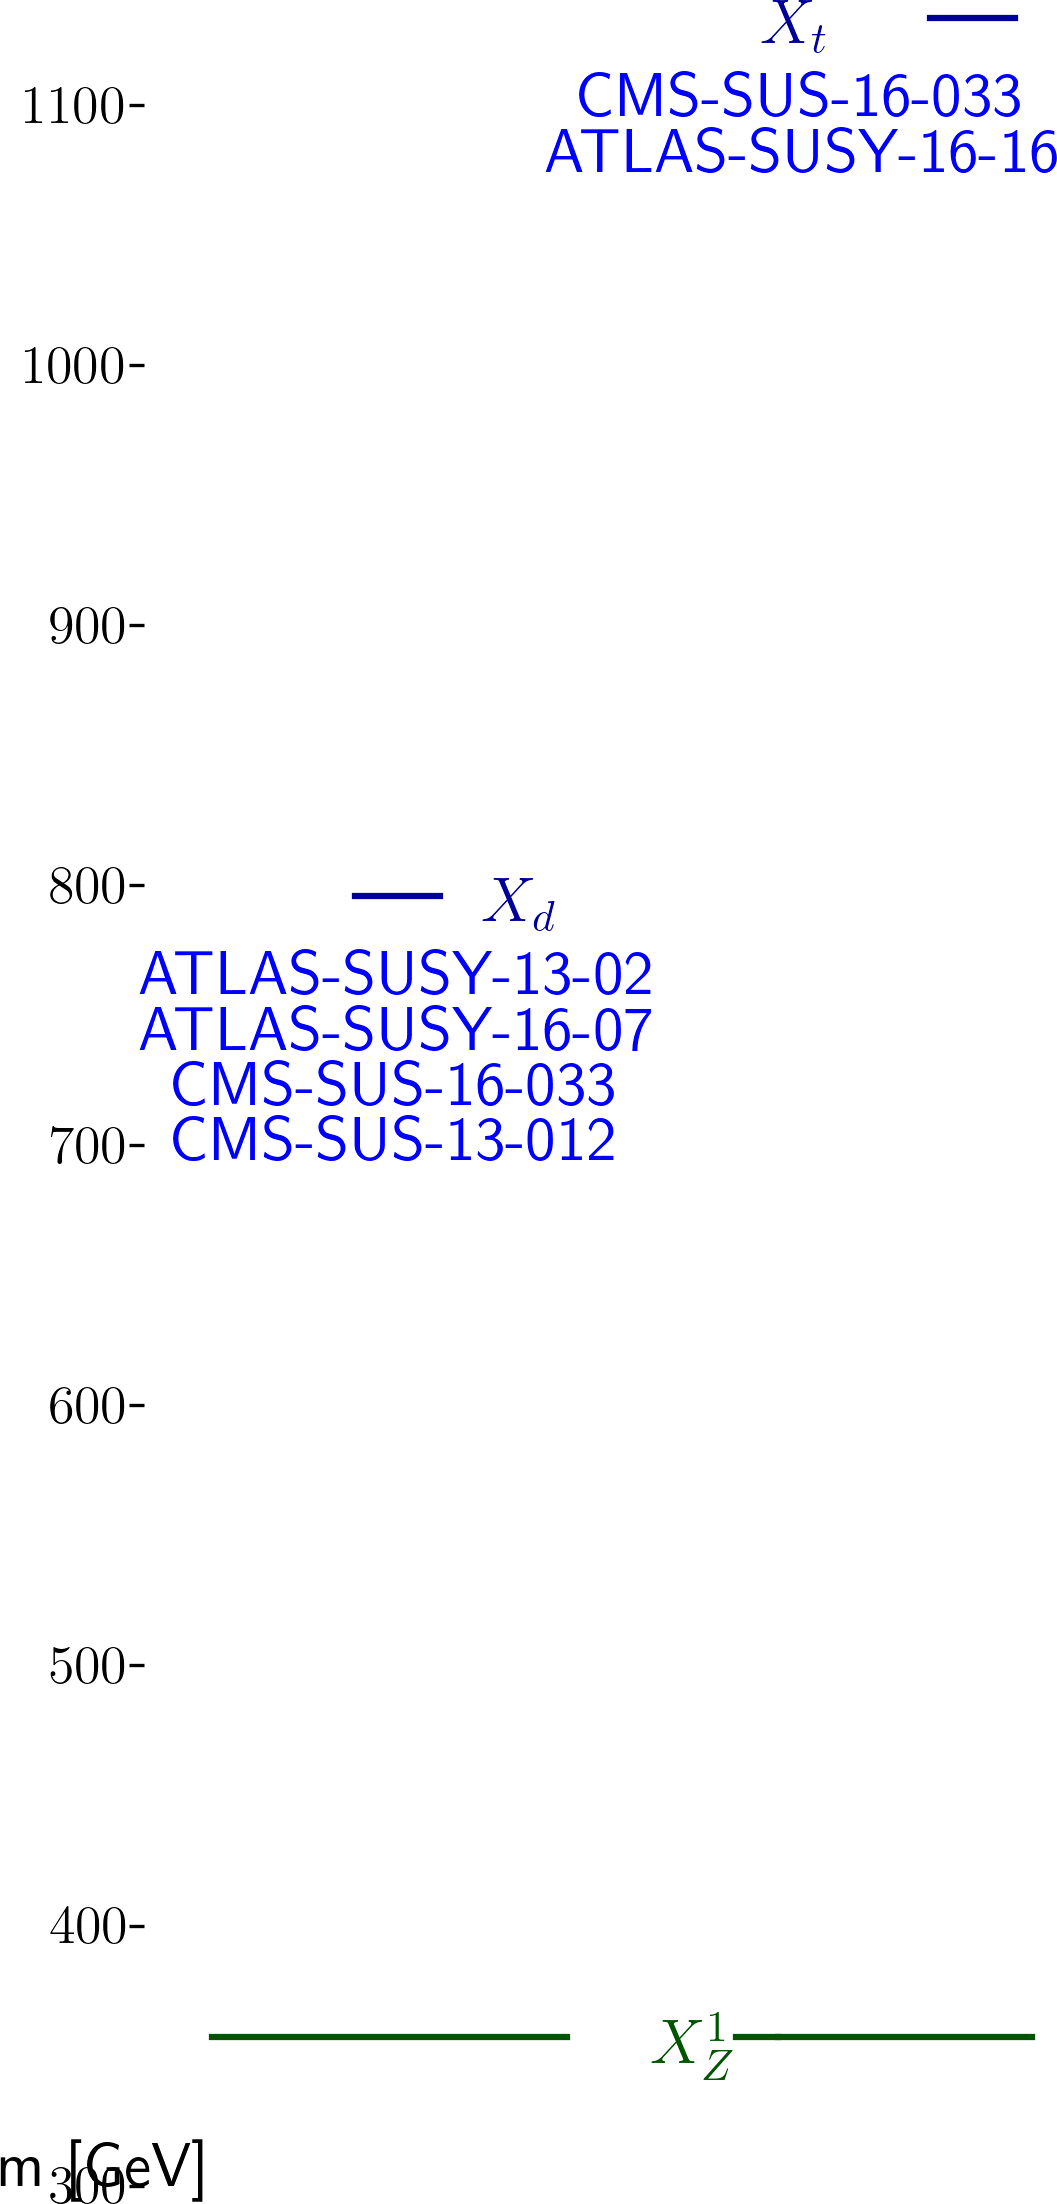
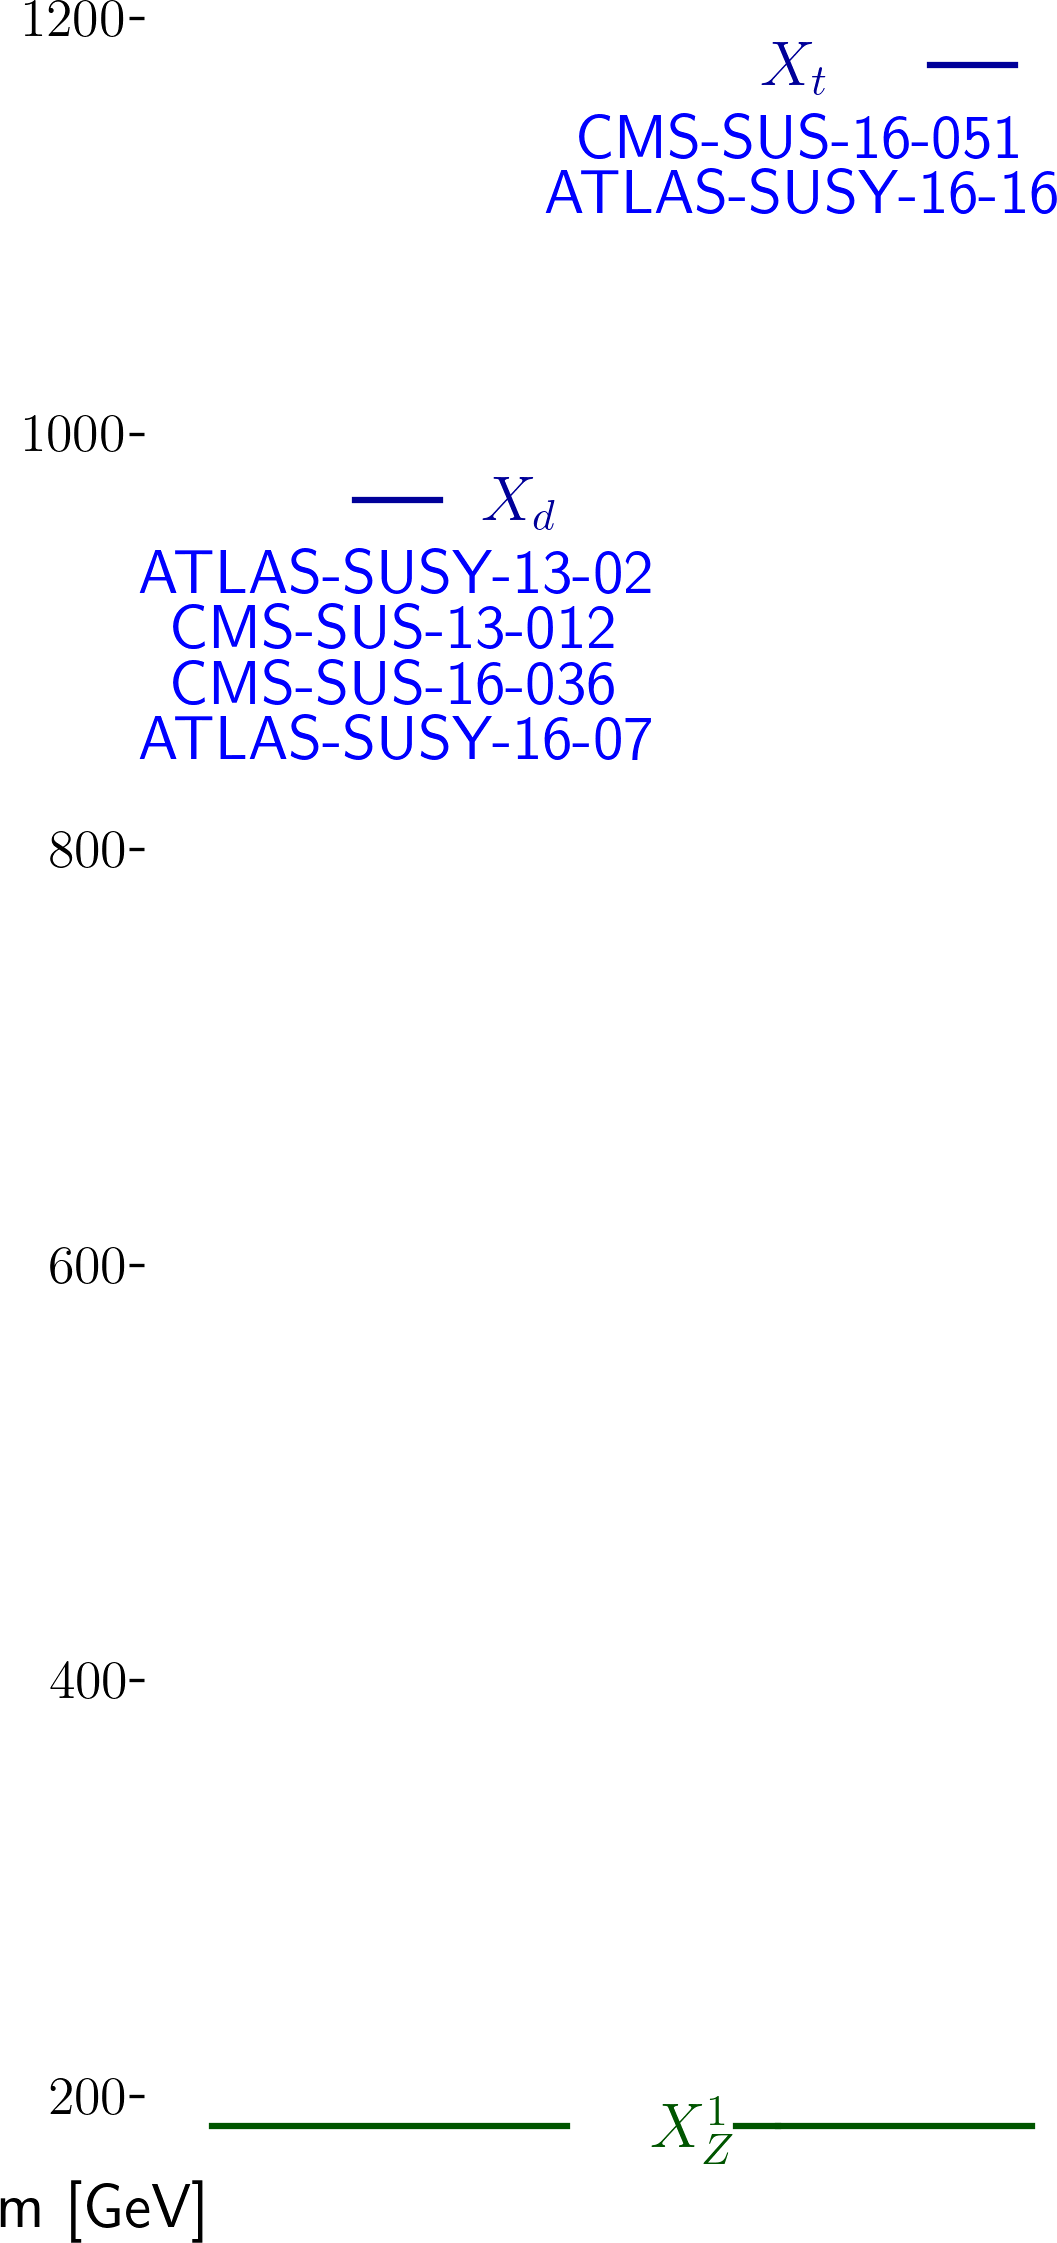
automated update by plotHiscore.py to /scratch-cbe/users/wolfgan.waltenberger/git/smodels.github.io/protomodels

diff --git a/protomodels/2020_PioneerStudy/closure_frozen7/index.html b/protomodels/2020_PioneerStudy/closure_frozen7/index.html
@@ -1,30 +1,31 @@
 <html>
 <body>
 <center>
-<table><td><h1>Current best protomodel: <i>K</i>=4.41</h1><td><img height=60px src=https://smodels.github.io/pics/banner.png></table>
+<table><td><h1>Current best protomodel: <i>K</i>=8.50</h1><td><img height=60px src=https://smodels.github.io/pics/banner.png></table>
 </center>
-<b><a href=./hiscore.slha>ProtoModel</a> <a href=./pmodel.py>(dict)</a> produced with <a href=https://smodels.github.io/docs/Validation124doublefrozen7>database v1.2.4doublefrozen7</a>, combination strategy <a href=./matrix_aggressive.png>aggressive</a> in walker 31 step 377.</b> <i>K</i> plots for: <a href=./M1000022.png?15052378>X<sub>Z</sub><sup>1</sup></a>, <a href=./M1000006.png?15052378>X<sub>t</sub></a>, <a href=./M1000001.png?15052378>X<sub>d</sub></a>. HPD plots for: <a href=./llhd1000006.png?15052378>X<sub>t</sub></a>, <a href=./llhd1000001.png?15052378>X<sub>d</sub></a>. SSM plots for: <a href=./ssm_-1000006_1000006.png?15052378>(x&#772;<sub>t</sub>,X<sub>t</sub>)</a><br>
+<b><a href=./hiscore.slha>ProtoModel</a> <a href=./pmodel.py>(dict)</a> produced with <a href=https://smodels.github.io/docs/Validation124frozen7>database v1.2.4frozen7</a>, combination strategy <a href=./matrix_aggressive.png>aggressive</a> in walker 18 step 830.</b> <i>K</i> plots for: <a href=./M1000022.png?15308260>X<sub>Z</sub><sup>1</sup></a>, <a href=./M1000006.png?15308260>X<sub>t</sub></a>, <a href=./M1000001.png?15308260>X<sub>d</sub></a>. HPD plots for: <a href=./llhd1000006.png?15308260>X<sub>t</sub></a>, <a href=./llhd1000001.png?15308260>X<sub>d</sub></a>. SSM plots for: <a href=./ssm_-1000006_1000006.png?15308260>(x&#772;<sub>t</sub>,X<sub>t</sub>)</a><br>
 <table width=80%>
 <tr><td>
 <br><b>24 predictions available. Highest r values are:</b><br><ul>
-<li><a href=http://cms-results.web.cern.ch/cms-results/public-results/publications/SUS-19-006/index.html>CMS-SUS-19-006</a>:T2 r=1.30, r<sub>exp</sub>=1.30<br>
-<li><a href=http://cms-results.web.cern.ch/cms-results/public-results/publications/SUS-19-006/index.html>CMS-SUS-19-006</a>:T2tt r=1.01, r<sub>exp</sub>=1.01<br>
-<li><a href=http://cms-results.web.cern.ch/cms-results/public-results/publications/SUS-16-049/index.html>CMS-SUS-16-049</a>:T2tt r=0.99, r<sub>exp</sub>=0.99<br>
-<li><a href=http://cms-results.web.cern.ch/cms-results/public-results/publications/SUS-16-033/index.html>CMS-SUS-16-033</a>:T2 r=0.99, r<sub>exp</sub>=0.99<br>
-<li><a href=http://cms-results.web.cern.ch/cms-results/public-results/publications/SUS-16-050/index.html>CMS-SUS-16-050</a>:T2tt r=0.97, r<sub>exp</sub>=0.97<br>
+<li><a href=http://cms-results.web.cern.ch/cms-results/public-results/publications/SUS-19-006/index.html>CMS-SUS-19-006</a>:T2tt r=0.64, r<sub>exp</sub>=N/A<br>
+<li><a href=https://atlas.web.cern.ch/Atlas/GROUPS/PHYSICS/PAPERS/SUSY-2016-07/>ATLAS-SUSY-2016-07</a>:T2 r=0.61, r<sub>exp</sub>=N/A<br>
+<li><a href=http://cms-results.web.cern.ch/cms-results/public-results/publications/SUS-16-050/index.html>CMS-SUS-16-050</a>:T2tt r=0.60, r<sub>exp</sub>=N/A<br>
+<li><a href=http://cms-results.web.cern.ch/cms-results/public-results/publications/SUS-16-049/index.html>CMS-SUS-16-049</a>:T2tt r=0.59, r<sub>exp</sub>=N/A<br>
+<li><a href=http://cms-results.web.cern.ch/cms-results/public-results/publications/SUS-16-033/index.html>CMS-SUS-16-033</a>:T2tt r=0.49, r<sub>exp</sub>=N/A<br>
 </ul>
 <td><br><b>K values without analyses: (contribution)</b><br>
 <ul>
-<li> <a href=https://twiki.cern.ch/twiki/bin/view/CMSPublic/PhysicsResultsSUS13012>CMS-SUS-13-012</a>: 5.05 (-13%)
-<li> <a href=https://atlas.web.cern.ch/Atlas/GROUPS/PHYSICS/PAPERS/SUSY-2013-02/>ATLAS-SUSY-2013-02</a>: 4.78 (-8%)
-<li> <a href=http://cms-results.web.cern.ch/cms-results/public-results/publications/SUS-16-033/index.html>CMS-SUS-16-033</a>: 4.18 (5%)
-<li> <a href=https://atlas.web.cern.ch/Atlas/GROUPS/PHYSICS/PAPERS/SUSY-2016-16/>ATLAS-SUSY-2016-16</a>: 2.81 (33%)
-<li> <a href=https://atlas.web.cern.ch/Atlas/GROUPS/PHYSICS/PAPERS/SUSY-2016-07/>ATLAS-SUSY-2016-07</a>: 0.36 (83%)
-<td><img width=600px src=./texdoc.png?1608052378>
-<br><font size=-1>Last updated: Tue Dec 15 18:12:58 2020</font>
+<li> <a href=https://twiki.cern.ch/twiki/bin/view/CMSPublic/PhysicsResultsSUS13012>CMS-SUS-13-012</a>: 0.70 (15%)
+<li> <a href=http://cms-results.web.cern.ch/cms-results/public-results/publications/SUS-16-036/index.html>CMS-SUS-16-036</a>: 0.70 (15%)
+<li> <a href=http://cms-results.web.cern.ch/cms-results/public-results/publications/SUS-16-051/index.html>CMS-SUS-16-051</a>: 0.70 (15%)
+<li> <a href=https://atlas.web.cern.ch/Atlas/GROUPS/PHYSICS/PAPERS/SUSY-2013-02/>ATLAS-SUSY-2013-02</a>: 0.63 (15%)
+<li> <a href=https://atlas.web.cern.ch/Atlas/GROUPS/PHYSICS/PAPERS/SUSY-2016-07/>ATLAS-SUSY-2016-07</a>: -0.57 (18%)
+<li> <a href=https://atlas.web.cern.ch/Atlas/GROUPS/PHYSICS/PAPERS/SUSY-2016-16/>ATLAS-SUSY-2016-16</a>: -1.99 (21%)
+<td><img width=600px src=./texdoc.png?1608308260>
+<br><font size=-1>Last updated: Fri Dec 18 17:17:40 2020</font>
 </table><table style="width:80%">
-<td width=45%><img height=580px src=./ruler.png?1608052378><td width=55%><img height=380px src=./decays.png?1608052378>
-<font size=-3><iframe type="text/html" height="220px" width="100%s" frameborder="0" src="./rawnumbers.html?1608052378"></iframe></font>
+<td width=45%><img height=580px src=./ruler.png?1608308260><td width=55%><img height=380px src=./decays.png?1608308260>
+<font size=-3><iframe type="text/html" height="220px" width="100%s" frameborder="0" src="./rawnumbers.html?1608308260"></iframe></font>
 </table>
 </body>
 </html>

diff --git a/protomodels/2020_PioneerStudy/closure_frozen7/rawnumbers.html b/protomodels/2020_PioneerStudy/closure_frozen7/rawnumbers.html
@@ -1,9 +1,10 @@
 <table>
 <tr><th>Analysis Name</th><th>Type</th><th>Dataset</th><th>Topos</th><th>Observed</th><th>Expected</th><th>Approx &sigma;</th><th>Particles</th><th>Signal</th>
 </tr>
-<tr><td><a href=https://atlas.web.cern.ch/Atlas/GROUPS/PHYSICS/PAPERS/SUSY-2013-02/>ATLAS-SUSY-2013-02</a></td><td>em</td> <td>SR2jm</td><td>T2</td><td>791.45</td><td>760 +/- 50</td><td style="text-align:right">0.6 &sigma;</td><td style="text-align:right">X<sub>d</sub></td><td style="text-align:right">31.45</td></tr>
-<tr><td><a href=https://atlas.web.cern.ch/Atlas/GROUPS/PHYSICS/PAPERS/SUSY-2016-07/>ATLAS-SUSY-2016-07</a></td><td>em</td> <td>2j_Meff_1200</td><td>T2</td><td>614.32</td><td>526 +/- 31</td><td style="text-align:right">2.3 &sigma;</td><td style="text-align:right">X<sub>d</sub></td><td style="text-align:right">88.32</td></tr>
+<tr><td><a href=https://atlas.web.cern.ch/Atlas/GROUPS/PHYSICS/PAPERS/SUSY-2013-02/>ATLAS-SUSY-2013-02</a></td><td>em</td> <td>SR4jt</td><td>T2</td><td>2.73</td><td>2.5 +/- 1</td><td style="text-align:right">0.1 &sigma;</td><td style="text-align:right">X<sub>d</sub></td><td style="text-align:right">0.23</td></tr>
+<tr><td><a href=https://atlas.web.cern.ch/Atlas/GROUPS/PHYSICS/PAPERS/SUSY-2016-07/>ATLAS-SUSY-2016-07</a></td><td>em</td> <td>2j_Meff_1200</td><td>T2</td><td>570.16</td><td>526 +/- 31</td><td style="text-align:right">1.1 &sigma;</td><td style="text-align:right">X<sub>d</sub></td><td style="text-align:right">44.16</td></tr>
 <tr><td><a href=https://atlas.web.cern.ch/Atlas/GROUPS/PHYSICS/PAPERS/SUSY-2016-16/>ATLAS-SUSY-2016-16</a></td><td>em</td> <td>tN_high</td><td>T2tt</td><td>7.73</td><td>3.8 +/- 1</td><td style="text-align:right">1.8 &sigma;</td><td style="text-align:right">X<sub>t</sub></td><td style="text-align:right">3.93</td></tr>
-<tr><td><a href=https://twiki.cern.ch/twiki/bin/view/CMSPublic/PhysicsResultsSUS13012>CMS-SUS-13-012</a></td><td>em</td> <td>8NJetinf_500HT8 ...</td><td>T2</td><td>4.80</td><td>4.8 +/- 2.3</td><td style="text-align:right">0.0 &sigma;</td><td style="text-align:right">X<sub>d</sub></td><td style="text-align:right">0.00</td></tr>
-<tr><td><a href=http://cms-results.web.cern.ch/cms-results/public-results/publications/SUS-16-033/index.html>CMS-SUS-16-033</a></td><td>em</td> <td>SR1_Njet2_Nb0_H ...</td><td>T2, T2tt</td><td>8000.72</td><td>7584 +/- 433</td><td style="text-align:right">0.9 &sigma;</td><td style="text-align:right">X<sub>d</sub>, X<sub>t</sub></td><td style="text-align:right">416.72</td></tr>
+<tr><td><a href=https://twiki.cern.ch/twiki/bin/view/CMSPublic/PhysicsResultsSUS13012>CMS-SUS-13-012</a></td><td>ul</td> <td>-</td><td>T2</td><td> 9.7 fb </td><td> 7.0 fb</td><td style="text-align:right">0.7 &sigma;</td><td style="text-align:right">X<sub>d</sub></td><td style="text-align:right">2.66 fb</td></tr>
+<tr><td><a href=http://cms-results.web.cern.ch/cms-results/public-results/publications/SUS-16-036/index.html>CMS-SUS-16-036</a></td><td>ul</td> <td>-</td><td>T2</td><td> 34.6 fb </td><td> 10.6 fb</td><td style="text-align:right">4.4 &sigma;</td><td style="text-align:right">X<sub>d</sub></td><td style="text-align:right">23.95 fb</td></tr>
+<tr><td><a href=http://cms-results.web.cern.ch/cms-results/public-results/publications/SUS-16-051/index.html>CMS-SUS-16-051</a></td><td>ul</td> <td>-</td><td>T2tt</td><td> 7.1 fb </td><td> 4.5 fb</td><td style="text-align:right">1.2 &sigma;</td><td style="text-align:right">X<sub>t</sub></td><td style="text-align:right">2.62 fb</td></tr>
 </table>

diff --git a/protomodels/2020_PioneerStudy/closure_frozen7/pmodel.py b/protomodels/2020_PioneerStudy/closure_frozen7/pmodel.py
@@ -1,1 +1,1 @@
-{'masses': {1000022: 347.245, 1000006: 1123.587, 1000001: 785.952}, 'ssmultipliers': {(1000022, 1000022): 2.249, (1000006, 1000006): 1.137, (-1000006, 1000006): 1.136, (-1000006, -1000006): 1.137, (1000006, 1000022): 1.137, (-1000006, 1000022): 1.137, (1000001, 1000001): 1.141, (-1000001, 1000001): 1.141, (-1000001, -1000001): 1.141, (1000001, 1000022): 1.141, (-1000001, 1000022): 1.141, (1000001, 1000006): 1.141, (-1000001, 1000006): 1.141, (-1000006, 1000001): 1.141, (-1000006, -1000001): 1.141}, 'decays': {1000022: {}, 1000006: {(1000022, 6): 1.0}, 1000001: {(1000022, 1): 1.0}}, 'timestamp': 'Tue Dec 15 18:12:48 2020', 'Z': 2.786, 'K': 4.41, 'walkerid': 31, 'step': 377, 'codever': '1.0', 'dbver': '1.2.4doublefrozen7'}
+{'masses': {1000022: 175.645, 1000001: 957.882, 1000006: 1167.433}, 'ssmultipliers': {(1000022, 1000022): 0.0, (1000001, 1000001): 1.503, (-1000001, 1000001): 1.503, (-1000001, -1000001): 1.503, (1000001, 1000022): 1.503, (-1000001, 1000022): 1.503, (1000006, 1000006): 1.515, (-1000006, 1000006): 1.515, (-1000006, -1000006): 1.515, (1000006, 1000022): 1.515, (-1000006, 1000022): 1.515, (1000001, 1000006): 1.515, (-1000006, 1000001): 1.515, (-1000001, 1000006): 1.515, (-1000006, -1000001): 1.515}, 'decays': {1000022: {}, 1000001: {(1000022, 1): 1.0}, 1000006: {(1000022, 6): 1.0}}, 'timestamp': 'Fri Dec 18 17:17:31 2020', 'Z': 3.438, 'K': 8.498, 'walkerid': 18, 'step': 830, 'codever': '1.0', 'dbver': '1.2.4frozen7'}
